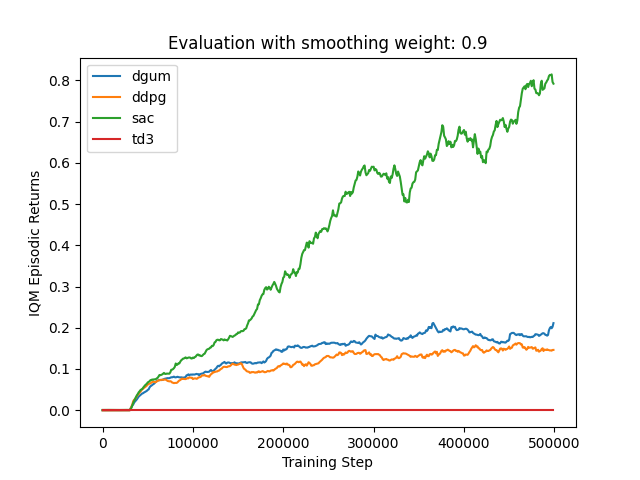
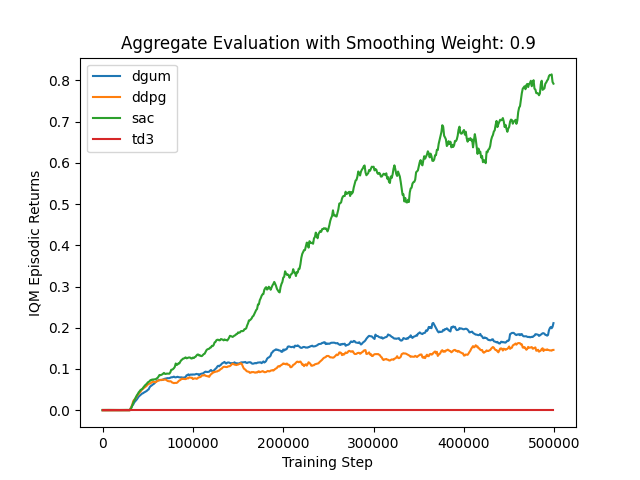
updates to iqm plots and slurm jobs

Changed region(s): [[0.1875, 0.0625, 0.8438, 0.125]]

diff --git a/repro_utils/iqm_plots.py b/repro_utils/iqm_plots.py
@@ -29,7 +29,7 @@ def plot_single_iqms(steps, results, smoothing_weight):
 
     ax.set_xlabel("Training Step")
     ax.set_ylabel("IQM Episodic Returns")
-    ax.set_title(f"Evaluation with smoothing weight: {smoothing_weight}")
+    ax.set_title(f"Aggregate Evaluation with Smoothing Weight: {smoothing_weight}")
     ax.legend()  # add a legend to distinguish the different lines
 
     plt.savefig('repro_utils/iqm_results/iqm_plot.png')

diff --git a/tests/test_doublegum.py b/tests/test_doublegum.py
@@ -9,7 +9,7 @@ import numpy as np
 class Args:
     num_trials: int = 1
     """number of trials for each algorithm"""
-    seed: int = 2
+    seed: int = 3
     """seed of the experiment"""
     torch_deterministic: bool = True
     """if toggled, `torch.backends.cudnn.deterministic=False`"""
